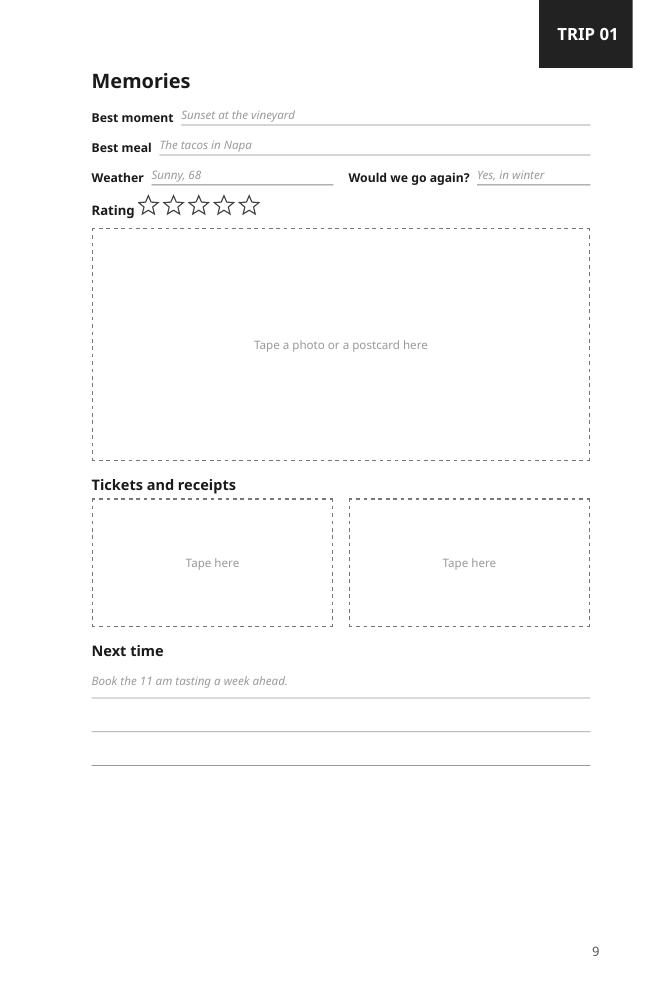
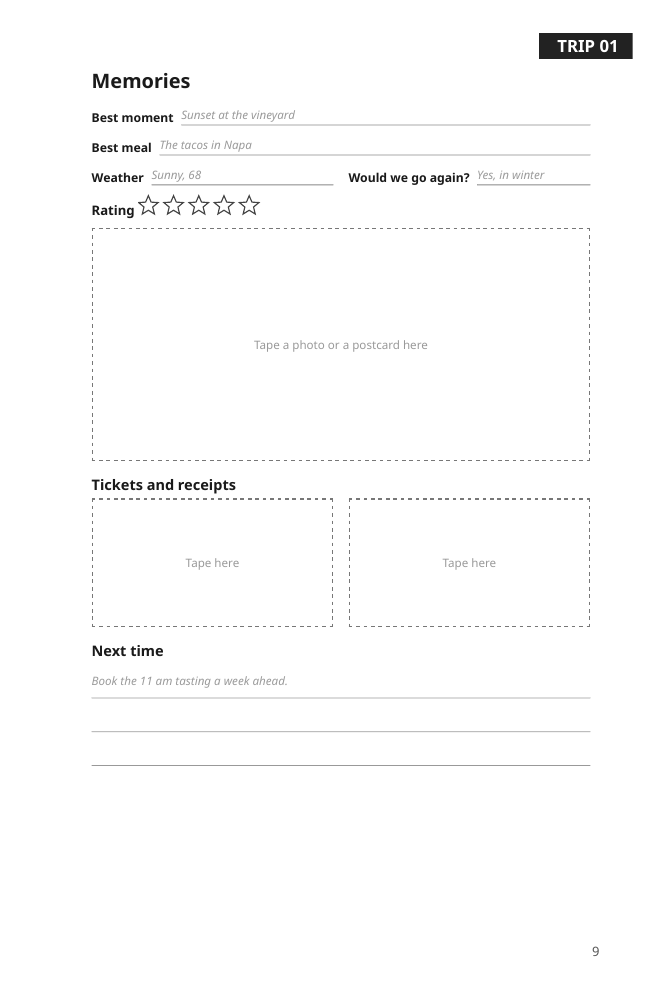
Logbook: tabs inside 0.25 in of the trim (new pixel check), route log 14 lines, kids and pets blocks (t2-manager's FIX on #60)
Claude-Session: https://claude.ai/code/session_01YRbcexMkfKnoUFVCjJdsq1

Changed region(s): [[0.8182, 0.0, 0.9697, 0.0909]]

diff --git a/books/road-trip-logbook/gen.py b/books/road-trip-logbook/gen.py
@@ -16,9 +16,9 @@ BOX = "☐"
 
 CSS = """
 @page { size: 6in 9in; margin: 0.62in 0.55in 0.7in 0.75in; }
-@page :right { margin-left: 0.75in; margin-right: 0.55in; @top-right { content: string(tab); font: 700 11pt 'Noto Sans'; color: #fff; background: #222; padding: 3pt 9pt 3pt 12pt; margin-right: -0.3in; }
+@page :right { margin-left: 0.75in; margin-right: 0.55in; @top-right { content: string(tab); font: 700 11pt 'Noto Sans'; color: #fff; background: #222; padding: 3pt 9pt 3pt 12pt; margin-right: -0.3in; margin-top: 0.3in; margin-bottom: 0.08in; }
                @bottom-right { content: counter(page); font: 8.5pt 'Noto Sans'; color: #555; } }
-@page :left  { margin-left: 0.55in; margin-right: 0.75in; @top-left { content: string(tab); font: 700 11pt 'Noto Sans'; color: #fff; background: #222; padding: 3pt 12pt 3pt 9pt; margin-left: -0.3in; }
+@page :left  { margin-left: 0.55in; margin-right: 0.75in; @top-left { content: string(tab); font: 700 11pt 'Noto Sans'; color: #fff; background: #222; padding: 3pt 12pt 3pt 9pt; margin-left: -0.3in; margin-top: 0.3in; margin-bottom: 0.08in; }
                @bottom-left { content: counter(page); font: 8.5pt 'Noto Sans'; color: #555; } }
 @page plain:right { @top-right { content: none; background: none; } }
 @page plain:left { @top-left { content: none; background: none; } }
@@ -40,7 +40,7 @@ th { font-size: 7.4pt; text-align: left; border-bottom: 1pt solid #333; padding:
 td { border-bottom: 0.5pt solid #999; height: 0.36in; padding: 0 3pt; vertical-align: bottom; font-size: 8pt; overflow: hidden; white-space: nowrap; }
 td.box:after { content: ""; display: inline-block; width: 8.5pt; height: 8.5pt; border: 0.8pt solid #444; vertical-align: bottom; }
 td.box, th.box { text-align: center; }
-.tall td { height: 0.5in; }
+.tall td { height: 0.44in; }
 .lines { margin-bottom: 6pt; } .lines .l { border-bottom: 0.5pt solid #999; height: 0.3in; line-height: 0.3in; }
 .tape { border: 0.8pt dashed #777; color: #999; font-size: 7.6pt; display: flex; align-items: center; justify-content: center; }
 .tape.photo { height: 2.1in; } .tape.ticket { height: 1.15in; flex: 1; }
@@ -94,7 +94,7 @@ def trip(n):
 <ul class="chk cols"><li>Car check (page near the back)</li><li>Fuel up</li><li>Charge phones and the car charger</li><li>Download maps for the area</li><li>Packing list (back)</li><li>Tickets and reservations ready</li></ul>
 </section>'''
     b = f'''<section class="page trip-page" data-tab="{tab}"><h2>Route log</h2><p class="sub">One line a stop, with room to write what to remember and what to skip next time.</p>
-{table(["#", "Place", "Arrived", "Miles", "Notes"], ["0.25in", "1.15in", "0.55in", "0.5in", "2.25in"], 9,
+{table(["#", "Place", "Arrived", "Miles", "Notes"], ["0.25in", "1.15in", "0.55in", "0.5in", "2.25in"], 14,
   {0: ["1", "Home to Vacaville", "9:10", "62", "Coffee stop; the line was long, go earlier."], 1: ["2", "Napa, Oxbow Market", "11:20", "41", "Parking is free"]} if dense else ({0: ["1", "First stop"]} if some else None), "tall")}
 </section>'''
     c = f'''<section class="page trip-page" data-tab="{tab}"><h2>Costs</h2>
@@ -137,7 +137,7 @@ def back():
     p = ['''<section class="page plain"><h2>Road trip checklist (US)</h2><div class="cols"><h3>Car</h3><ul class="chk"><li>Registration and insurance card</li><li>Spare tire, jack, lug wrench</li><li>Jumper cables or a jump starter</li><li>Flashlight and spare batteries</li><li>First-aid kit</li><li>Water and snacks</li><li>Phone charger and mount</li><li>Windshield washer fluid</li></ul>
 <h3>Money and rules</h3><ul class="chk"><li>Cash for tolls and parking</li><li>Toll pass or toll-by-plate plan</li><li>Park pass or reservation</li><li>Fuel stops on remote stretches</li><li>Rest stops every two hours</li></ul>
 <h3>Winter and mountains</h3><ul class="chk"><li>Tire chains that fit, tried once at home</li><li>Check road and chain controls before you go</li><li>Ice scraper, gloves, blanket</li><li>Full tank before a pass</li><li>Plan to arrive before dark</li></ul>
-<h3>People</h3><ul class="chk"><li>Who drives which leg</li><li>Medicines</li><li>ID for everyone</li><li>Pet needs</li></ul></div></section>''',
+<h3>People</h3><ul class="chk"><li>Who drives which leg</li><li>Medicines</li><li>ID for everyone</li></ul><h3>Kids</h3><ul class="chk"><li>Car seats and boosters fitted</li><li>Snacks, water, games</li><li>Spare clothes and wipes</li></ul><h3>Pets</h3><ul class="chk"><li>Leash, bowl, water, bags</li><li>Vaccination papers</li><li>Never leave a pet in a parked car</li></ul></div></section>''',
          '<section class="page plain"><h2>Packing list</h2><div class="cols"><h3>Clothes</h3>' + lines(6) + '<h3>Toiletries</h3>' + lines(4) + '<h3>Gear</h3>' + lines(6) + '<h3>Food and drink</h3>' + lines(4) + '</div></section>',
          '<section class="page plain"><h2>Car check</h2><p class="sub">Before every long trip.</p>' + table(["Check", BOX, "Note"], ["2.5in", "0.5in", "1.7in"], 10, {i: [x] for i, x in enumerate(["Tire pressure, spare included", "Tire tread", "Oil level", "Coolant", "Washer fluid", "Lights and signals", "Wipers", "Brakes feel normal", "Battery terminals clean", "Warning lights off"])}) + '<div class="row2">' + field("Date") + field("Odometer") + '</div></section>']
     for k in range(2):

diff --git a/books/road-trip-logbook/check.py b/books/road-trip-logbook/check.py
@@ -1,0 +1,31 @@
+#!/usr/bin/env python3
+"""Checks for the logbook interior: trim, page count, fonts, and that NOTHING is printed within 0.25 in of any trim edge
+(the tabs included: it renders every page and looks at the pixels). Usage: python3 check.py interior.pdf"""
+import subprocess, sys, tempfile, glob
+from pathlib import Path
+from PIL import Image
+pdf = sys.argv[1]
+info = subprocess.run(["pdfinfo", pdf], capture_output=True, text=True).stdout
+pages = int([l for l in info.splitlines() if l.startswith("Pages:")][0].split()[1])
+size = [l for l in info.splitlines() if l.startswith("Page size:")][0]
+fonts = subprocess.run(["pdffonts", pdf], capture_output=True, text=True).stdout.splitlines()[2:]
+names = sorted({l.split()[0].split("+")[-1] for l in fonts if l.strip()})
+ok = True
+def line(label, good, text):
+    global ok
+    ok &= good
+    print(("PASS " if good else "FAIL ") + label + ": " + text)
+line("trim", "432 x 648" in size, size.split(":", 1)[1].strip() + " (6 x 9 in)")
+line("pages", 24 <= pages <= 828 and pages % 2 == 0, f"{pages} (KDP minimum 24, even)")
+line("fonts embedded", all("Noto" in n for n in names), ", ".join(names))
+DPI, EDGE = 60, 0.25
+bad = []
+with tempfile.TemporaryDirectory() as d:
+    subprocess.run(["pdftoppm", "-r", str(DPI), "-png", pdf, d + "/p"], check=True)
+    for f in sorted(glob.glob(d + "/p-*.png")):
+        im = Image.open(f).convert("L"); w, h = im.size; m = round(EDGE * DPI)
+        for box in ((0, 0, w, m), (0, h - m, w, h), (0, 0, m, h), (w - m, 0, w, h)):
+            if im.crop(box).getextrema()[0] < 200:
+                bad.append(Path(f).stem); break
+line("nothing within 0.25 in of the trim edge", not bad, "all pages clear" if not bad else "ink in the edge zone on pages " + ", ".join(b.split("-")[-1] for b in bad[:12]))
+sys.exit(0 if ok else 1)

diff --git a/books/road-trip-logbook/outline.md b/books/road-trip-logbook/outline.md
@@ -14,14 +14,14 @@ Undated, black and white, 120 pages, drawn by code (`gen.py`, $0). Price idea $8
 
 ## Page plan (120 pages)
 - **Front (5):** title; copyright and "this belongs to"; how to use; trip index (2 pages, 25 rows).
-- **Per trip (4 pages, x 25 = 100):** **Plan** (name, dates, who, from/to, miles, drive time, budget; 8 stops with booked / paid / deposit boxes and a confirmation number; a "before we go" checklist), **Route log** (9 lines: place, arrived, miles, wide notes), **Costs** (fuel log with odometer; lodging, food, tolls and parking, tickets, souvenirs, other; total, miles, MPG), **Memories** (best moment, best meal, weather, would we go again, 5-star rating, a photo box, two ticket boxes, next time).
-- **Back (15):** US road checklist (car, money and rules, winter and mountains, people); packing list; car check (10 items); tickets and receipts x 2; emergency numbers; notes x 8; the feedback page (R58).
+- **Per trip (4 pages, x 25 = 100):** **Plan** (name, dates, who, from/to, miles, drive time, budget; 8 stops with booked / paid / deposit boxes and a confirmation number; a "before we go" checklist), **Route log** (14 lines: place, arrived, miles, wide notes), **Costs** (fuel log with odometer; lodging, food, tolls and parking, tickets, souvenirs, other; total, miles, MPG), **Memories** (best moment, best meal, weather, would we go again, 5-star rating, a photo box, two ticket boxes, next time).
+- **Back (15):** US road checklist (car, money and rules, winter and mountains, people, kids, pets); packing list; car check (10 items); tickets and receipts x 2; emergency numbers; notes x 8; the feedback page (R58).
 
 ## Grey example hints (R100: dense early, sparser later)
 Trips 1-2: every field and the first rows have an example (a Napa weekend). Trips 3-5: the first row of each table only. Trips 6-25: none. The back pages keep a light hint on the first rows.
 
-## Checks (by code, all PASS on this build)
-6 x 9 in trim (432 x 648 pt); 120 pages (24 minimum); fonts embedded (Noto Sans only); nothing printed within 0.25 in of the trim edge (no bleed); margins inside 0.55 in outside, 0.75 in inside (KDP minimum 0.375 in for 120 pages).
+## Checks (`check.py`, all PASS on this build)
+6 x 9 in trim (432 x 648 pt); 120 pages (even, 24 minimum); fonts embedded (Noto Sans only); **nothing printed within 0.25 in of any trim edge, the tabs included** (it renders every page and reads the pixels; a tab touching the edge failed it); margins 0.55 in outside, 0.75 in inside (KDP minimum 0.375 in).
 
 ## Still to do before the Owner's yes (R51)
 Cover brief (Route 66 art reuse, text as overlay, never drawn by the model); listing and keywords; the KDP proof copy check at 100 %. **The Owner's yes comes on this page plan and the cover before production.**
